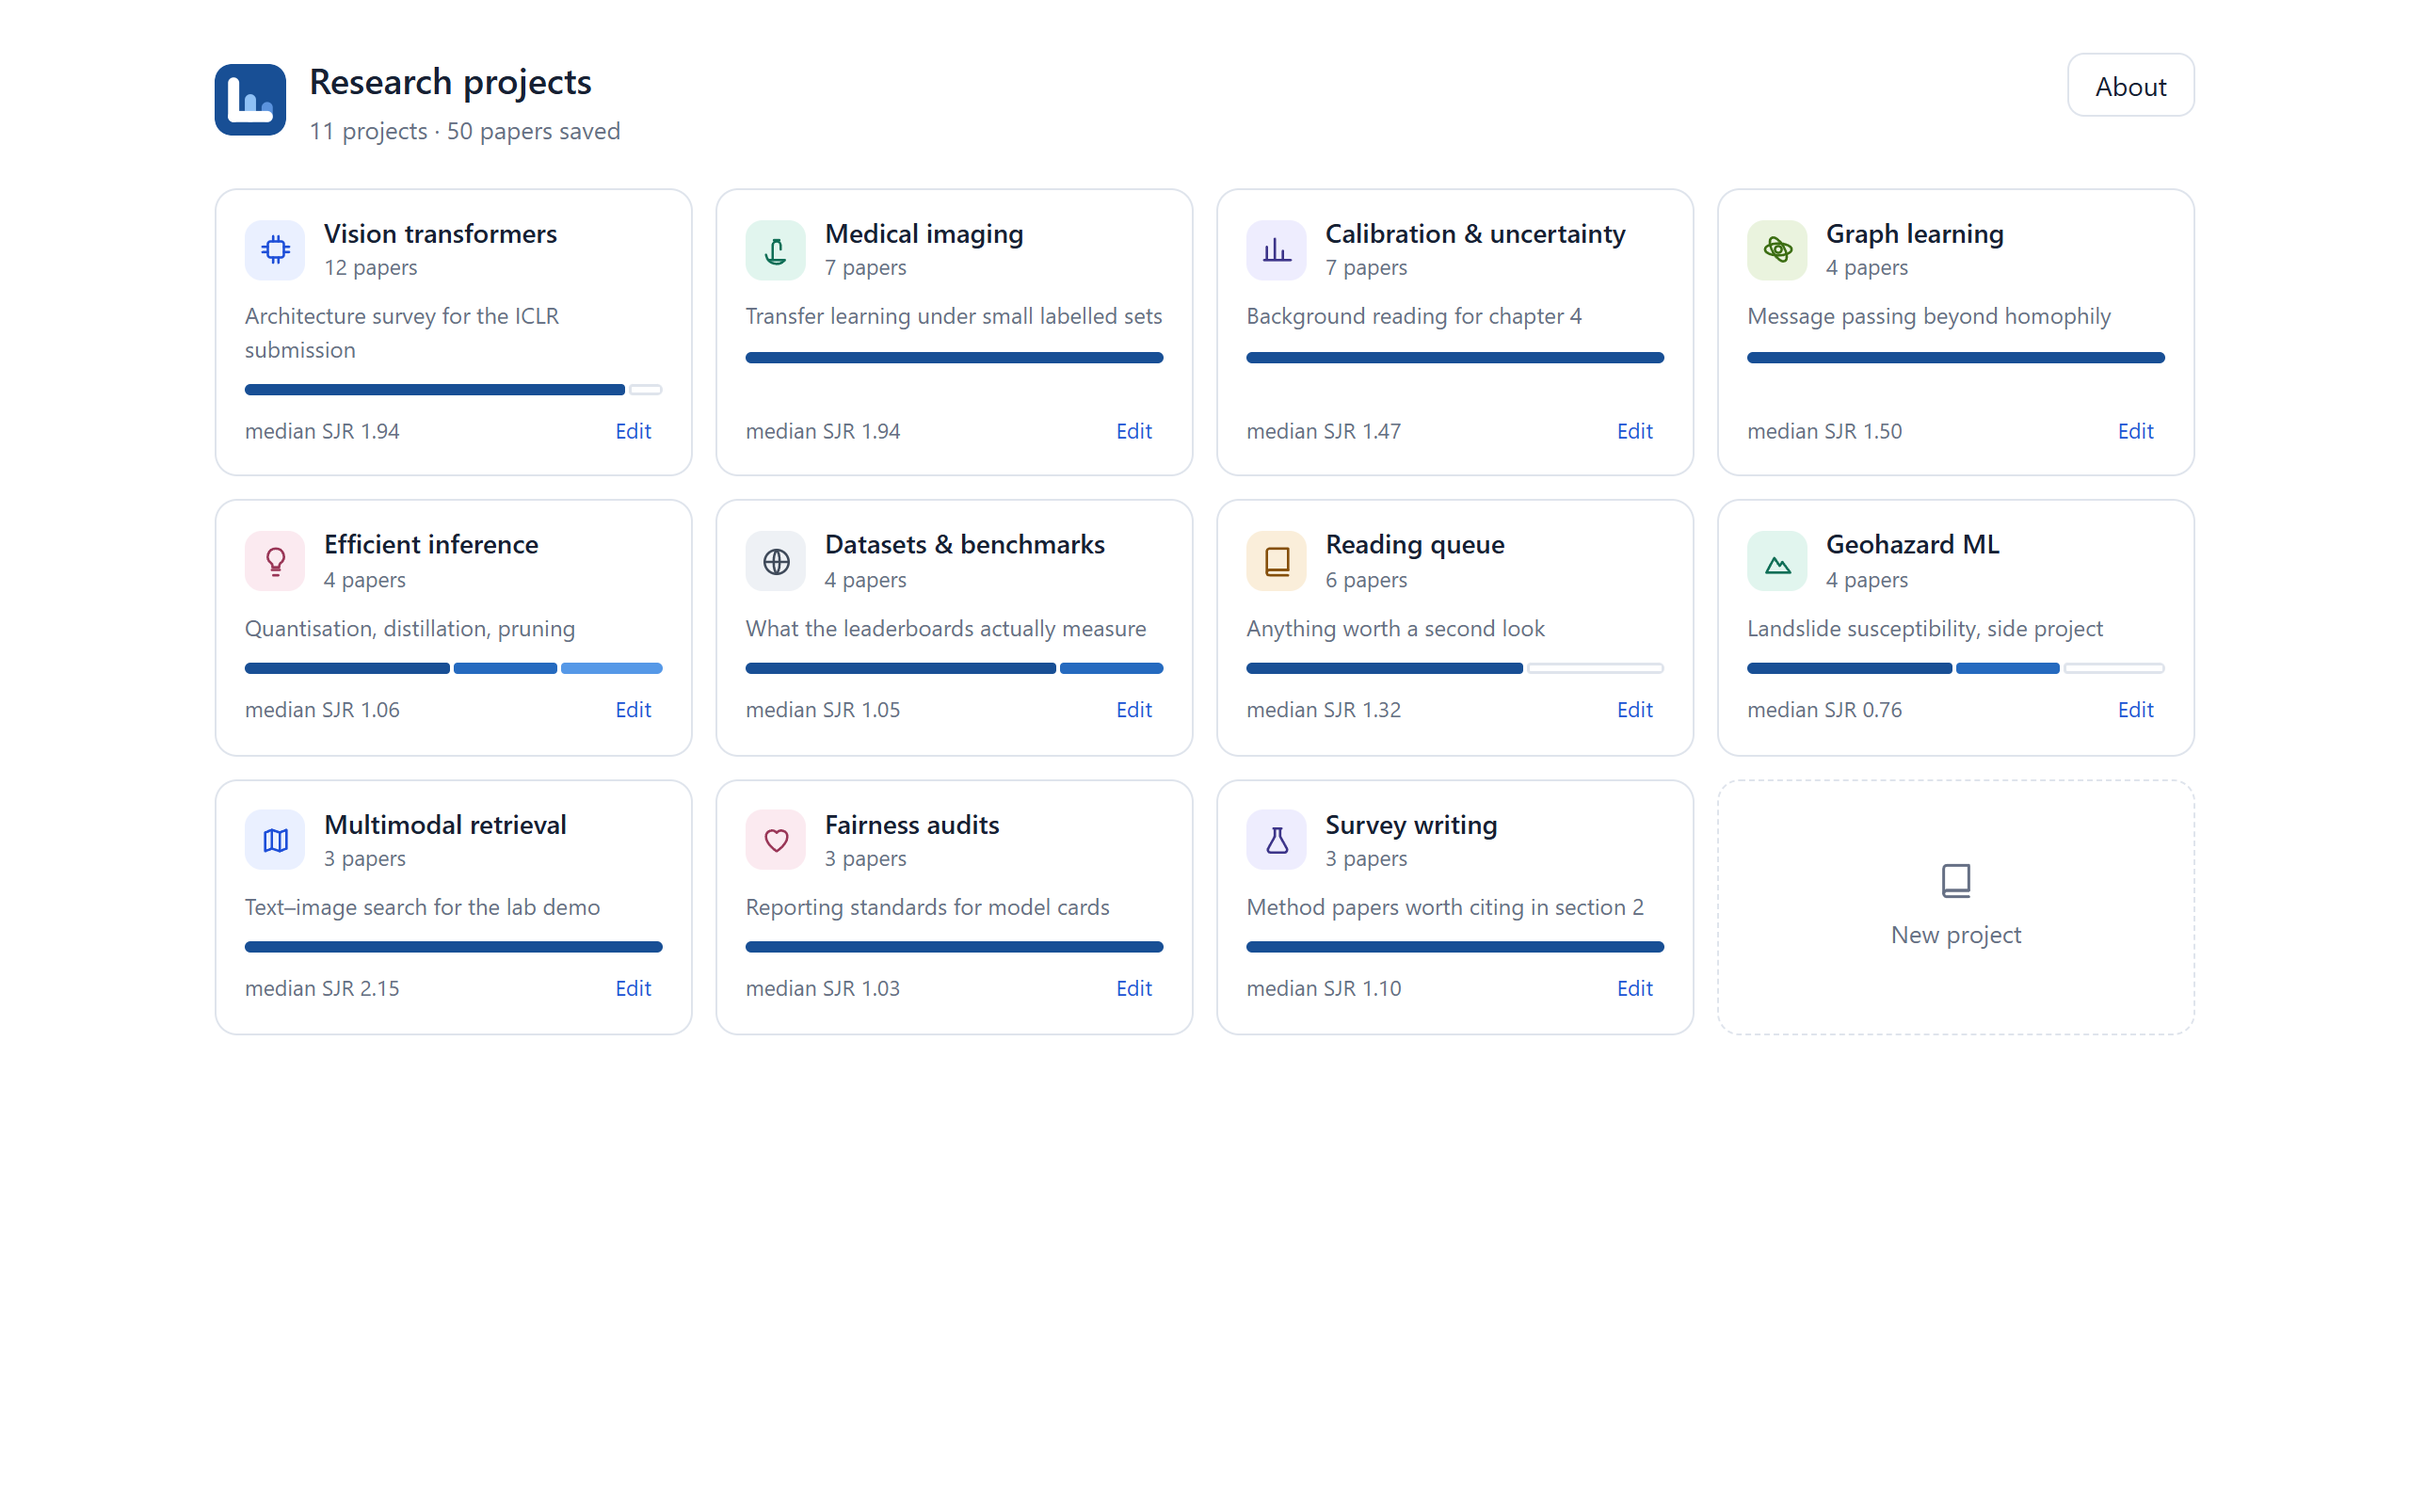
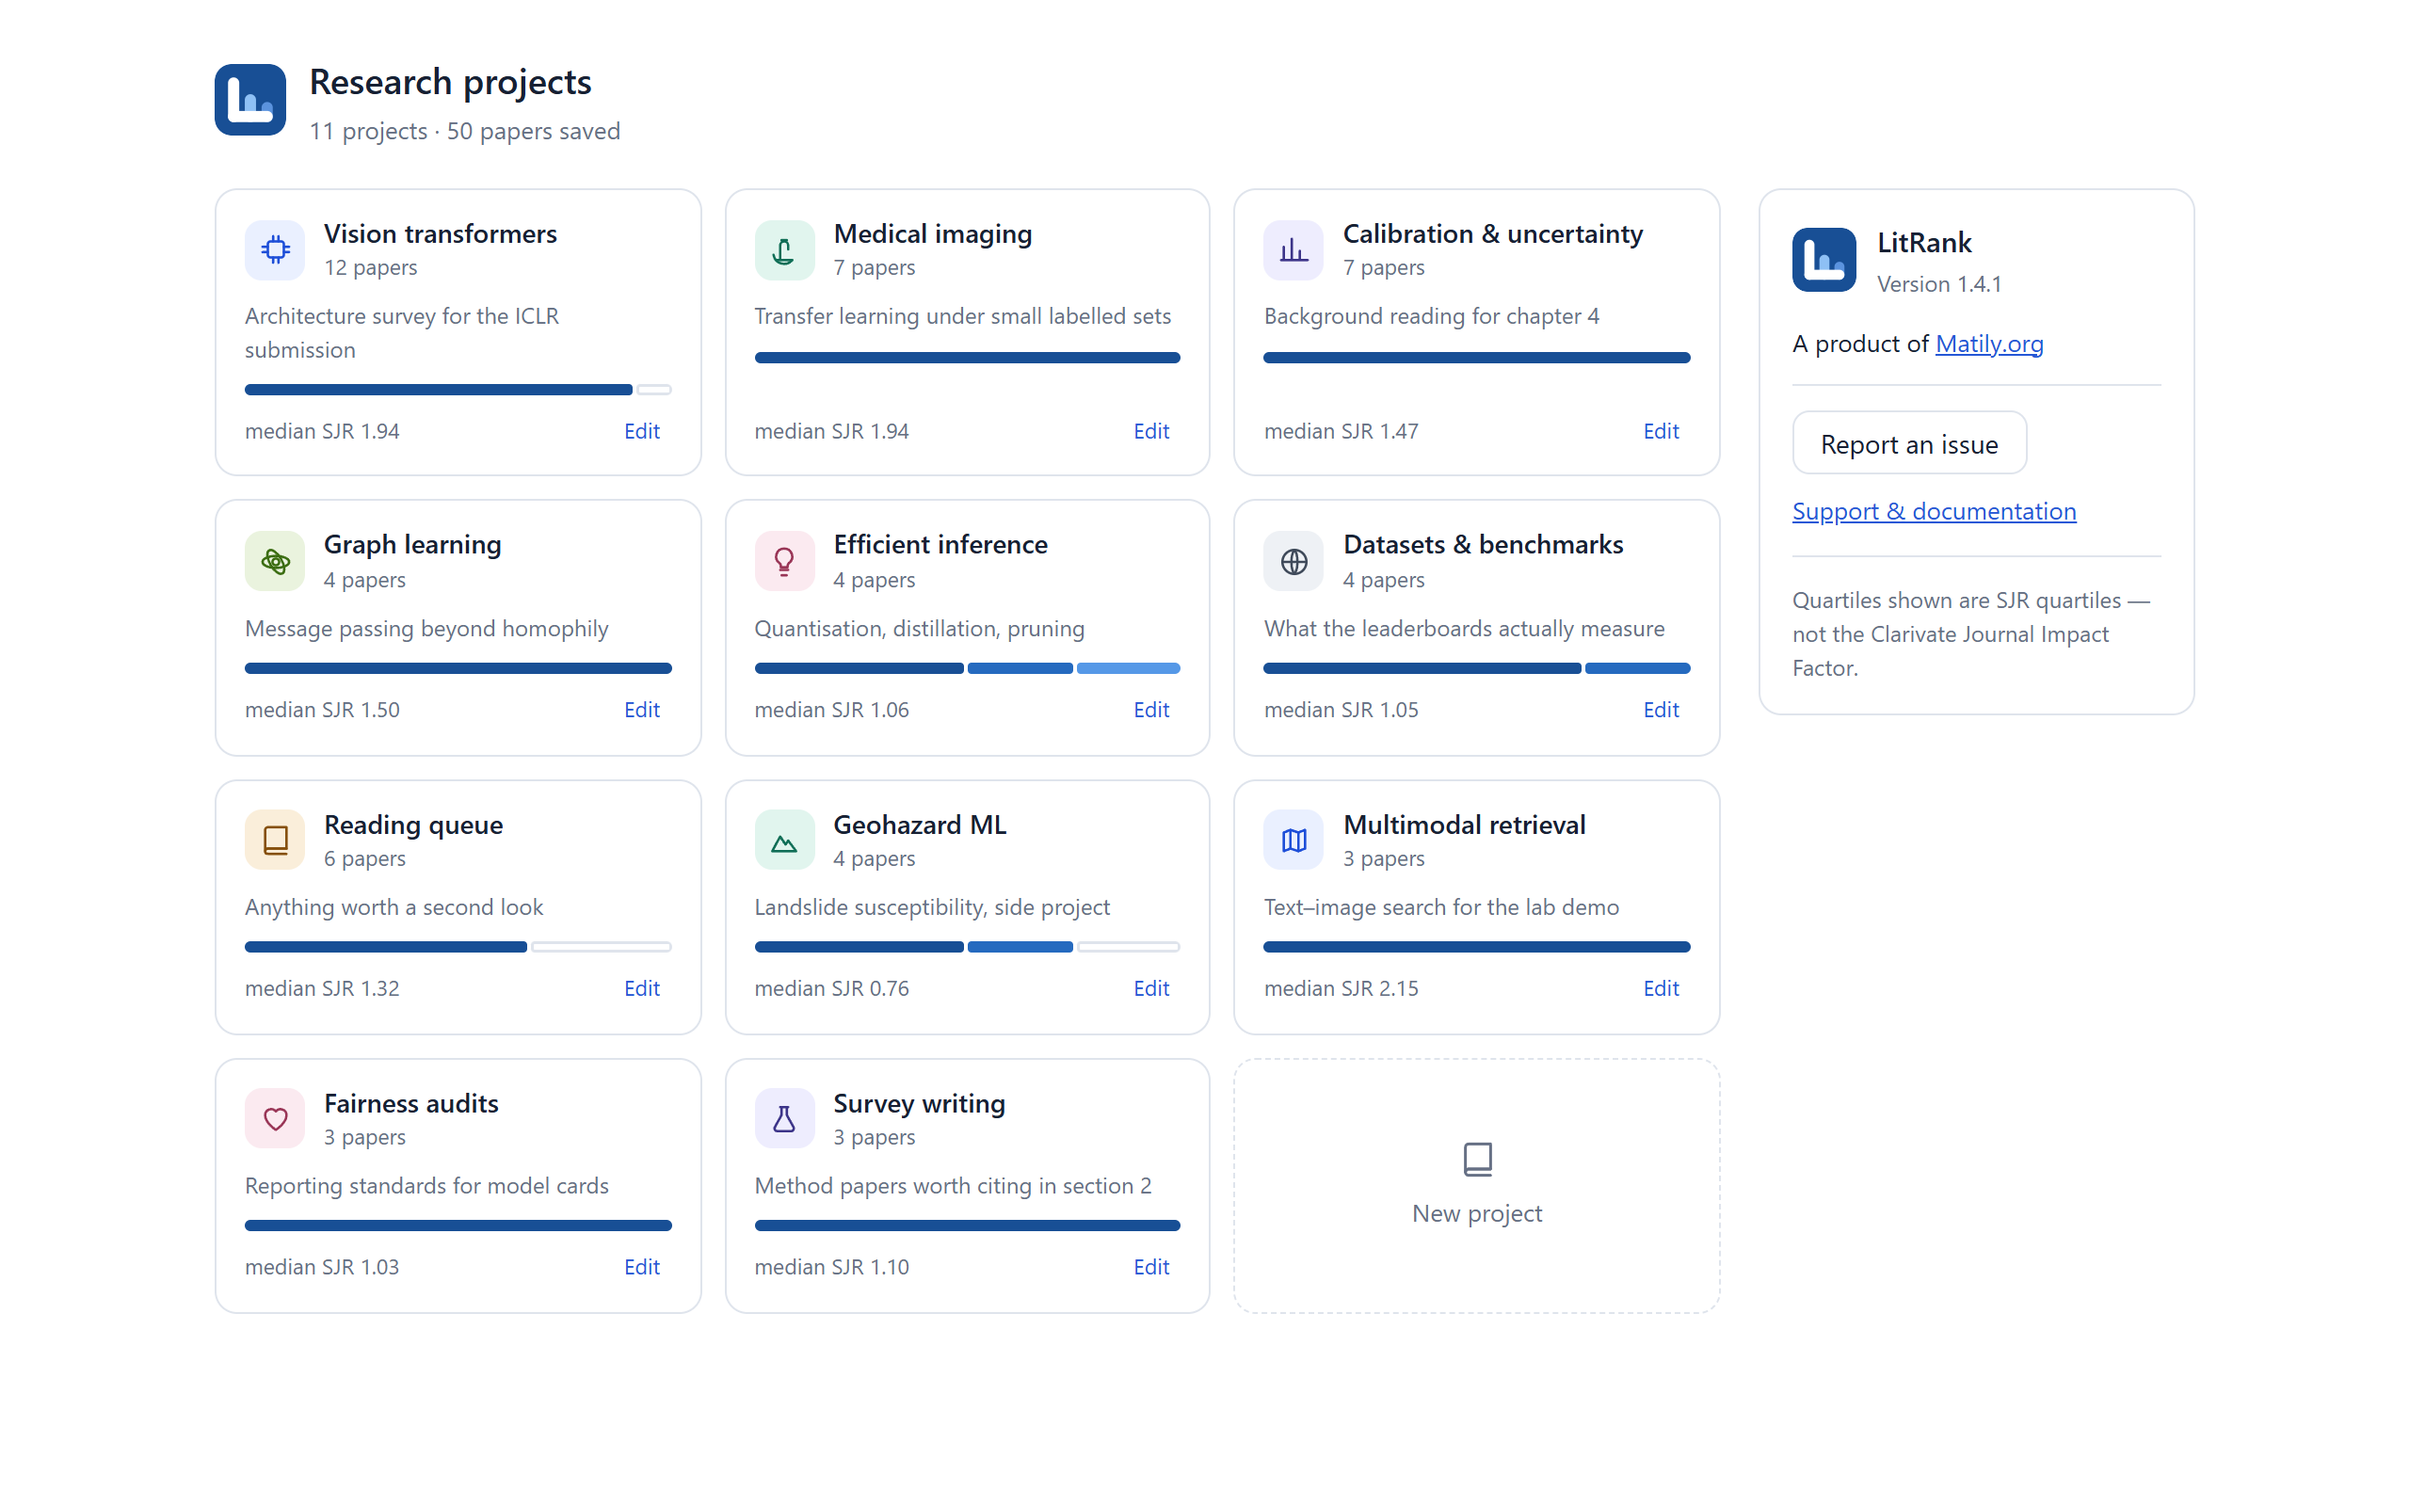
Refresh screenshots: About moved into the projects sidebar
The About page is gone. A separate view meant a button, a route and a back
link to show six lines of text the user leaves immediately; the projects grid
already had empty space to its right, so the text lives there now — always
visible, nothing to navigate to.

The source list went with it. What remains is the version, the Matily.org
credit, the two links people actually want, and one line stating these are SJR
quartiles rather than the Clarivate Impact Factor. That line is protective, not
decorative: a reader who assumes otherwise has been misled by us.

diff --git a/README.md b/README.md
@@ -54,7 +54,7 @@ On an author profile, the same badges appear per publication, plus a distributio
 
 ### Projects, not a single flat reading list
 
-<img src="screenshots/03-projects.png" alt="The LitRank dashboard showing eleven research project cards, each with an icon, colour, paper count, quartile distribution bar and median SJR" width="100%">
+<img src="screenshots/03-projects.png" alt="The LitRank dashboard showing eleven research project cards, each with an icon, colour, paper count, quartile distribution bar and median SJR, beside a sidebar with the version, the Matily.org credit and links to support and issue reporting" width="100%">
 
 Each project has its own icon, colour and description, and shows at a glance how many papers it holds, how they are distributed across quartiles, and their median SJR. A paper can belong to several projects at once.
 
